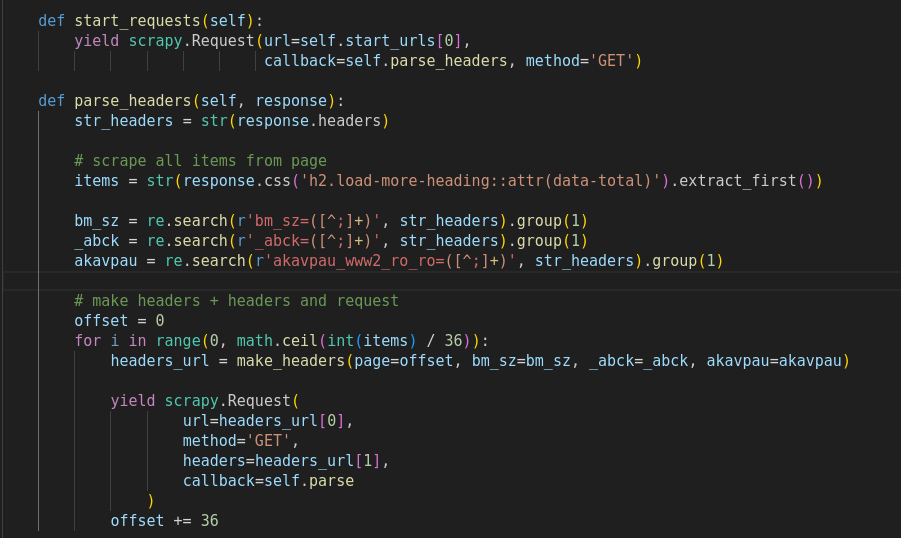
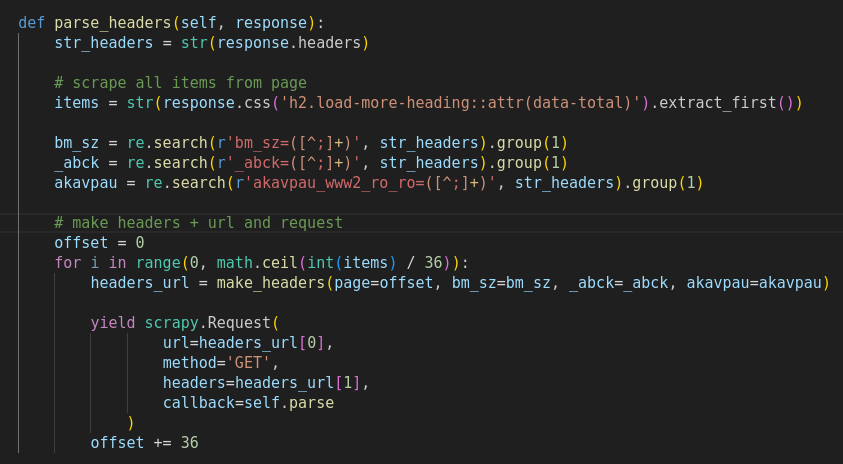
added new photo

diff --git a/amazon_spider_test/amazon_spider_test/spiders/hm_spider.py b/amazon_spider_test/amazon_spider_test/spiders/hm_spider.py
@@ -46,8 +46,8 @@ class HmSpiderSpider(scrapy.Spider):
         bm_sz = re.search(r'bm_sz=([^;]+)', str_headers).group(1)
         _abck = re.search(r'_abck=([^;]+)', str_headers).group(1)
         akavpau = re.search(r'akavpau_www2_ro_ro=([^;]+)', str_headers).group(1)
-        
-        # make headers + headers and request
+
+        # make headers + url and request
         offset = 0
         for i in range(0, math.ceil(int(items) / 36)):
             headers_url = make_headers(page=offset, bm_sz=bm_sz, _abck=_abck, akavpau=akavpau)
